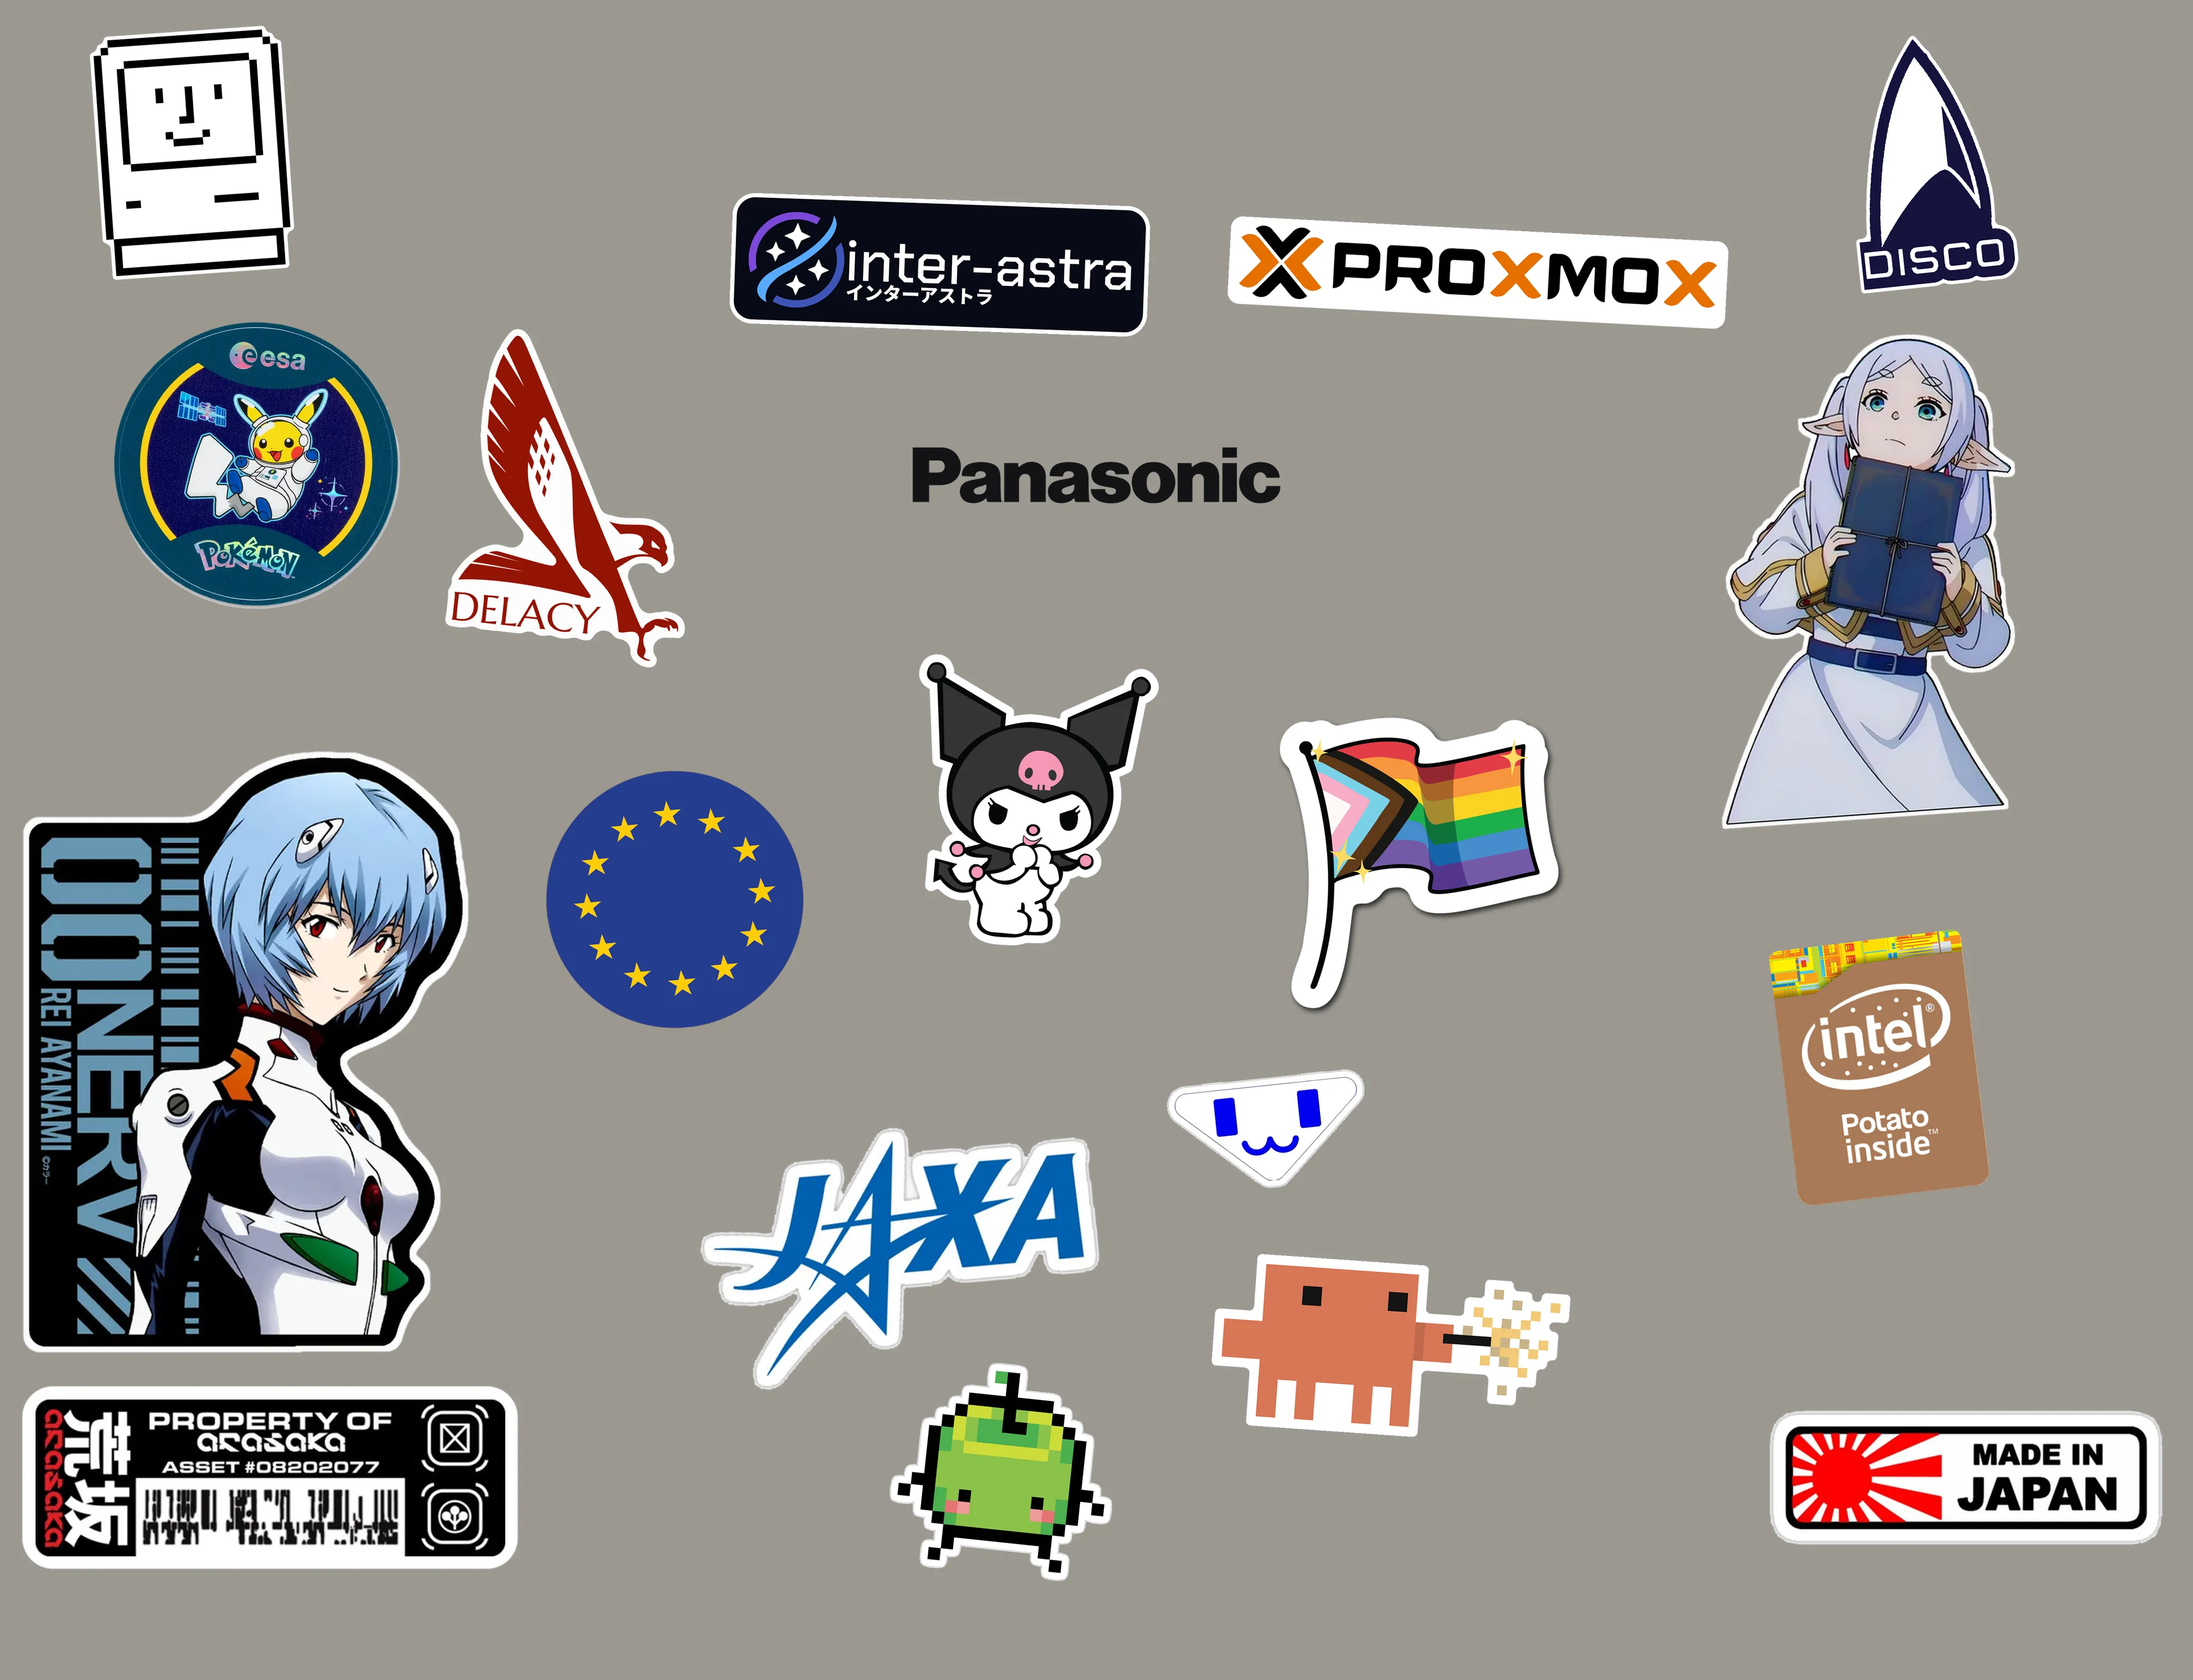
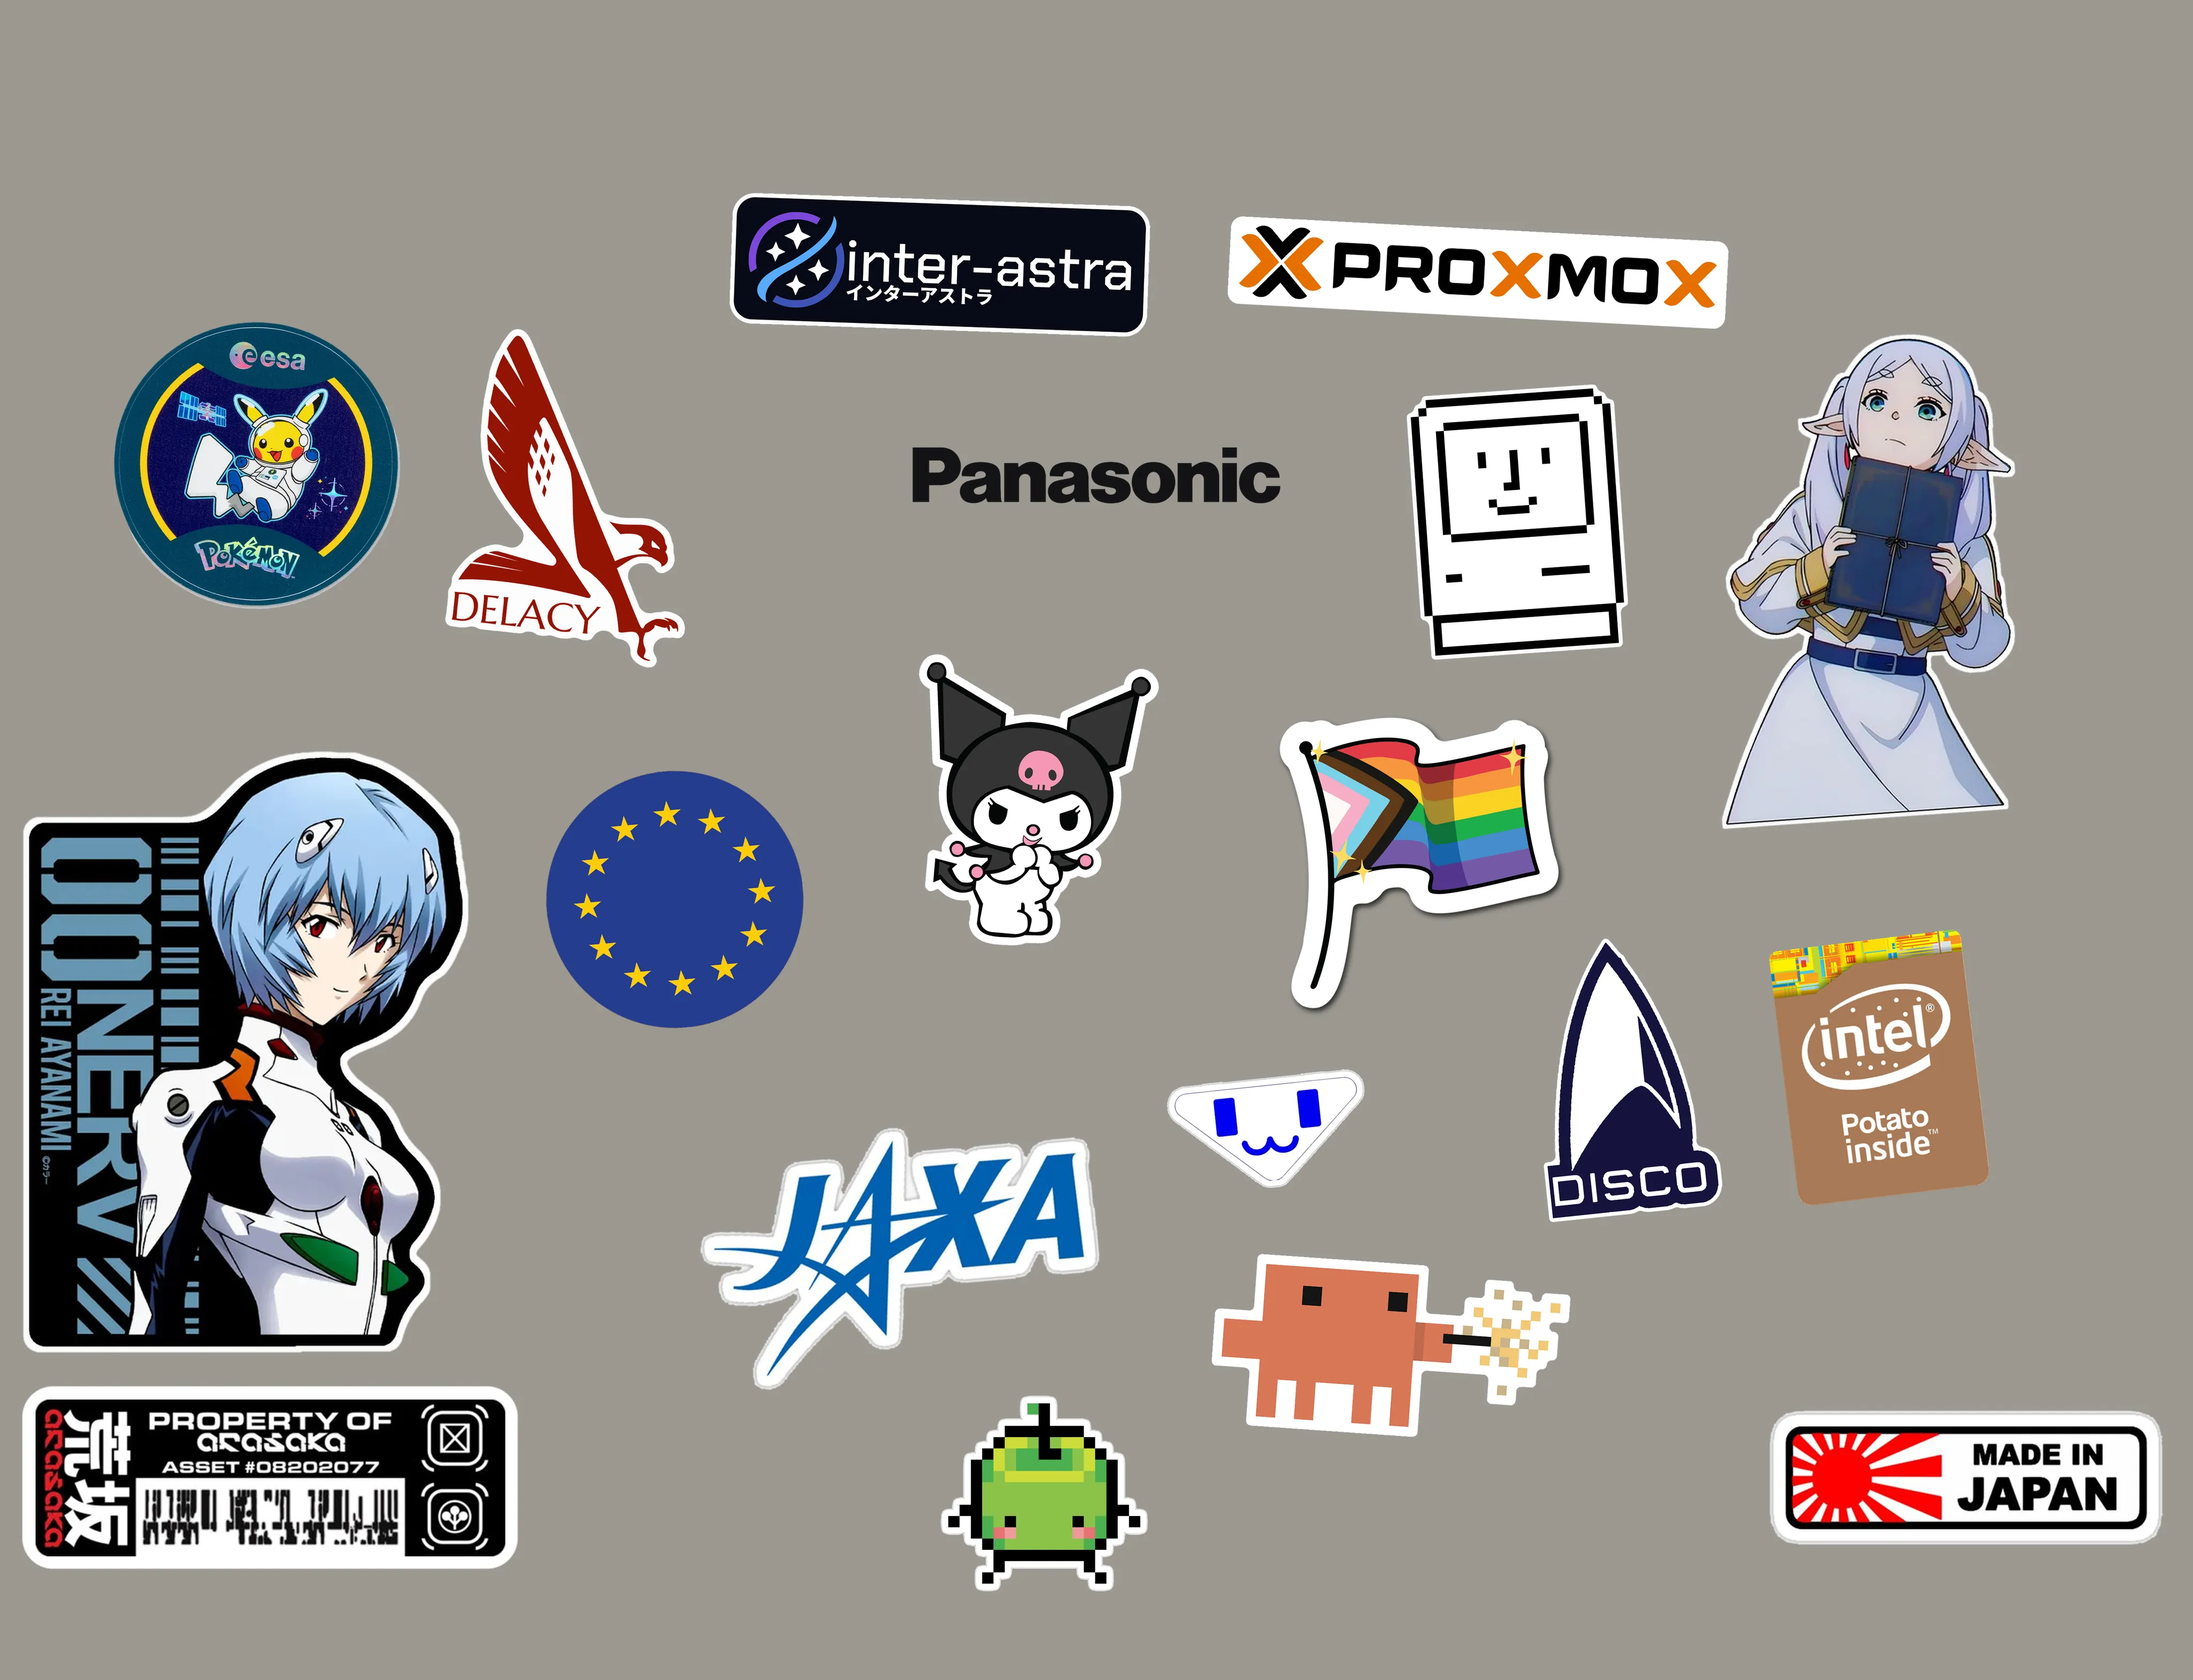
Place the Mac, DISCO and Stardew stickers where the lid has room, and keep the Stardew one off the hinge band
The Mac sits beside the Panasonic mark and DISCO between the flag and the Intel sticker, each with at least 8 mm to its neighbours. The Stardew sticker stays straight and above y 199.5, where the silver band along the hinge shows the print on the inside of the lid. publish_lid.py writes the rebuilt lid as .webp and restamps the .gltf; versions are bumped along the intro's load chain.

diff --git a/intro/laptop/GltfLaptop.js b/intro/laptop/GltfLaptop.js
@@ -7,7 +7,7 @@ import { Laptop } from './Laptop.js?v=20261031-leds2';
 // blob: URLs, which the site's CSP refuses.
 // The version belongs to the model: bump it whenever the .gltf is exported again, or a returning
 // visitor keeps the old one. The lid textures carry their own hash inside the .gltf (export_gltf.py).
-const MODEL_URL = 'intro/laptop/cf-qv9/cf-qv9.gltf?v=20261110-lid';
+const MODEL_URL = 'intro/laptop/cf-qv9/cf-qv9.gltf?v=20261110-lid2';
 const METRES_TO_CM = 100;
 const GRAIN_STRENGTH = 0.35;
 const LED_GREEN = 0x4dff7c;

diff --git a/concept/concept.js b/concept/concept.js
@@ -34,7 +34,7 @@ const STICKERS = [
   ['pride', 176, 108, 38, -8], ['potato', 234, 133, 24, 7], ['jaxa', 112, 156, 50, 5], ['clawd', 173, 168, 44, -4],
   ['proxmox', 184, 34, 62, -3], ['delacy', 72, 62, 30, -6],
   ['inter-astra', 117, 33, 52, -2], ['uwu', 158, 141, 25, 6],
-  ['mac', 24, 19, 24, 4], ['disco', 240, 20, 20, 6], ['sprout', 125, 183, 28, -6],
+  ['mac', 189, 65, 26, 4], ['disco', 202, 134, 22, 6], ['sprout', 130, 186, 26, 0],
 ];
 const deck = document.getElementById('deck');
 const logo = document.createElement('div');

diff --git a/intro/intro.js b/intro/intro.js
@@ -1,7 +1,7 @@
 import * as THREE from './vendor/three.bundle.min.js?v=20261031-leds2';
 import { gsap, ScrollTrigger } from './vendor/gsap.bundle.min.js';
 import { createProceduralLaptop } from './laptop/ProceduralLaptop.js?v=20261031-leds2';
-import { createGltfLaptop } from './laptop/GltfLaptop.js?v=20261110-lid';
+import { createGltfLaptop } from './laptop/GltfLaptop.js?v=20261110-lid2';
 import { TIMELINE } from './intro.timeline.js?v=20261031-leds2';
 import { curve } from './curve.js?v=20261031-leds2';
 

diff --git a/index.html b/index.html
@@ -448,7 +448,7 @@
   <p class="foot__legal"><a href="legal.html">Impressum · Datenschutz</a> <span><a href="https://status.lucya.systems">Status</a></span></p>
 </footer>
 
-<script type="module" src="concept/concept.js?v=20261110-sc"></script>
-<script type="module" src="intro/loader.js?v=20261110-lid"></script>
+<script type="module" src="concept/concept.js?v=20261110-lid2"></script>
+<script type="module" src="intro/loader.js?v=20261110-lid2"></script>
 </body>
 </html>

diff --git a/intro/loader.js b/intro/loader.js
@@ -1,6 +1,6 @@
 /* Pulls the laptop intro in when gate.js decided it runs. three.js and GSAP are
    behind the dynamic import, so nothing heavy loads otherwise. */
-const VERSION = '?v=20261110-lid';
+const VERSION = '?v=20261110-lid2';
 
 if (window.LUCYA_INTRO) {
   window.LUCYA_INTRO_LOADING = true;

diff --git a/tools/laptop/publish_lid.py b/tools/laptop/publish_lid.py
@@ -1,0 +1,30 @@
+"""Puts a rebuilt lid on the web model without a Blender export.
+
+  python tools/laptop/make_decals.py
+  python tools/laptop/publish_lid.py
+
+Writes tex_lid and tex_lid_mr as .webp into intro/laptop/cf-qv9/ and stamps their URLs in the
+.gltf with a hash of the new files, so a browser holding the old lid fetches the new one.
+Then bump ?v= on MODEL_URL in intro/laptop/GltfLaptop.js, and the versions up its chain
+(intro.js, loader.js, index.html): the .gltf itself is cached under its own URL.
+"""
+import hashlib
+import json
+from pathlib import Path
+
+from PIL import Image
+
+HERE = Path(__file__).parent
+OUT = HERE.parent.parent / "intro" / "laptop" / "cf-qv9"
+
+for name, quality in (("tex_lid", 80), ("tex_lid_mr", 90)):
+    Image.open(HERE / f"{name}.png").convert("RGB").save(OUT / f"{name}.webp", "WEBP", quality=quality, method=6)
+
+path = OUT / "cf-qv9.gltf"
+gltf = json.loads(path.read_text("utf8"))
+for image in gltf["images"]:
+    name = image["uri"].split("?")[0]
+    if name.startswith("tex_lid"):
+        image["uri"] = f"{name}?v={hashlib.md5((OUT / name).read_bytes()).hexdigest()[:8]}"
+        print(image["uri"])
+path.write_text(json.dumps(gltf, separators=(",", ":")), "utf8")

diff --git a/tools/laptop/layout.py b/tools/laptop/layout.py
@@ -64,9 +64,11 @@ STICKERS = [
     ("delacy", 72, 62, 30, -6),
     ("inter-astra", 117, 33, 52, -2),
     ("uwu", 158, 141, 25, 6),
-    ("mac", 24, 19, 24, 4),
-    ("disco", 240, 20, 20, 6),
-    ("sprout", 125, 183, 28, -6),   # clear of the silver band along the hinge (y > 199.5), which shows the print on the inside
+    ("mac", 189, 65, 26, 4),
+    ("disco", 202, 134, 22, 6),
+    # pixel art stays straight; its foot must stay above y 199.5, the silver band along the
+    # hinge, which shows the print on the inside of the lid
+    ("sprout", 130, 186, 26, 0),
 ]
 LOGO_CLEAR = (108, 50, 165, 68)
 
